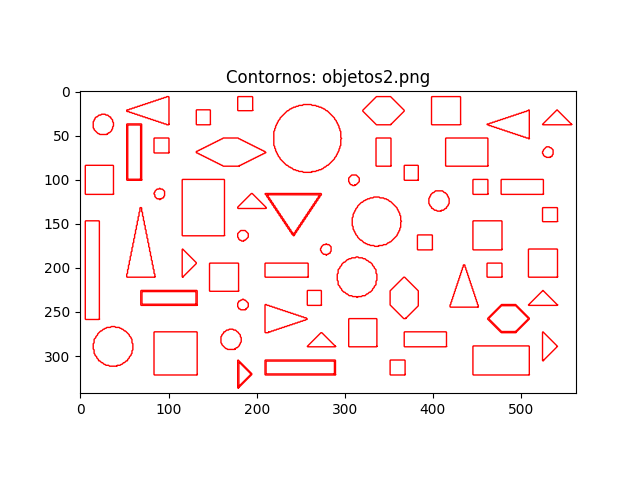
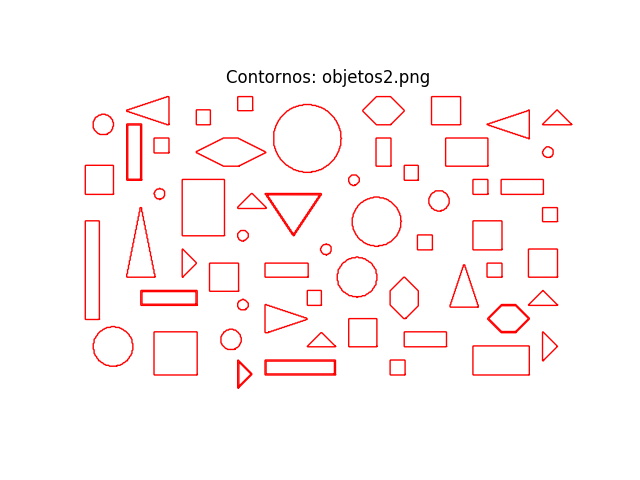
ex1 finished

diff --git a/ex1/main.py b/ex1/main.py
@@ -1,9 +1,8 @@
 import matplotlib
 matplotlib.use('Agg')
-import skimage.io
 import numpy as np
 import matplotlib.pyplot as plt
-from skimage import measure
+from skimage import measure, io
 
 '''
 Exercise: 1
@@ -16,68 +15,107 @@ State University of Campinas
 1st semester 2018
 '''
 
-def get_props(input_file):
-    img = skimage.io.imread(input_file, as_grey=True)
-    props = measure.regionprops(measure.label(img, background=255))
 
-    # label 1 is the background so we skip it
-    props = props[1:]
-    print("numero de regioes:", len(props))
+def show_objects_properties(input_file):
+    '''
+    Detect objects and save an image with each object labeled with its index.
+    Prints properties of each object.
+    :param input_file:
+    :return:
+    '''
+    img = io.imread(input_file, as_grey=True)
+
+    # detect objects and extract their properties
+    # background is 1 (white)
+    props = measure.regionprops(measure.label(img, background=1))
 
     areas = []
     for i, prop in enumerate(props):
-        # print properties of each region
-        print('regiao: {:d}\tperimetro: {:.0f}\tarea: {:.0f}\tcentroide: ({:.1f}, {:.1f})'.format(i, prop.perimeter, prop.area, prop.centroid[0], prop.centroid[1]))
+        print('regiao: {:d}\tperimetro: {:.0f}\tarea: {:.0f}\tcentroide: ({:.1f}, {:.1f})'
+              .format(i, prop.perimeter, prop.area, prop.centroid[0], prop.centroid[1]))
 
         # write text label on image
-        plt.text(prop.centroid[1]-4, prop.centroid[0]+4, str(i), fontsize=10, color='red')
+        plt.text(prop.centroid[1]-7, prop.centroid[0]+7, str(i), fontsize=10, color='black')
         areas.append(prop.area)
 
-    # show labeled regions
-    plt.imshow(img, cmap='gray')
-    plt.title('Regiões rotuladas: ' + input_file)
-    plt.savefig('regions.' + input_file)
-    plt.clf()
+    # show labeled objects
+    plot_only_contours(input_file)
+    save_image('regions.' + input_file, 'Regiões rotuladas: ' + input_file)
 
     # print object's areas stats
     areas = np.array(areas)
-    print('numero de regioes pequenas:', np.sum(areas < 1500))
-    print('numero de regioes medias:', np.sum((areas >= 1500) & (areas < 3000)))
-    print('numero de regioes grandes:', np.sum(areas >= 3000))
+    count_objects_per_size = np.array([np.sum(areas < 1500),
+                                       np.sum((areas >= 1500) & (areas < 3000)),
+                                       np.sum(areas >= 3000)])
+    print('----------------------------------------------')
+    print("numero total de objetos:", len(props))
+    print('numero de objetos pequenos:', count_objects_per_size[0])
+    print('numero de objetos medios:', count_objects_per_size[1])
+    print('numero de objetos grandes:', count_objects_per_size[2])
 
-    # show histogram of areas
-    plt.hist(areas, bins=[0, 1500, 3000, np.inf])
-    plt.xlabel('Área')
-    plt.ylabel('Número de regiões')
-    plt.title('Histograma de áreas: ' + input_file)
-    plt.savefig('hist.' + input_file)
-    plt.clf()
+    # plot histogram of objects per size
+    fig, ax = plt.subplots()
+    ind = np.arange(1,4)
+    ax.set_xticklabels(['Pequeno', 'Medio', 'Grande'])
+    ax.set_xticks(ind)
+    plt.bar(ind, count_objects_per_size)
+
+    # save image
+    plt.ylabel('Contagem')
+    save_image('hist.' + input_file, 'Histograma de áreas: ' + input_file, axis='on')
 
 
-def show_contours(input_file):
-    img = skimage.io.imread(input_file, as_grey=True)
+def plot_only_contours(input_file):
+    '''
+    Plots only the contours of the objects detected.
+    :param input_file: file name of image containing objects and a white background
+    :return: None. But plots in the current matplotlib
+    '''
+    img = io.imread(input_file, as_grey=True)
     contours = measure.find_contours(img, level=0.5)
 
     # start with blank image
-    img = np.full(img.shape, 255)
-    plt.imshow(img, cmap='gray', vmin=0, vmax=255)
+    img = np.full(img.shape, 1)
+    plt.imshow(img, cmap='gray', vmin=0, vmax=1)
 
     # fill with the contour pixels in red
     for n, contour in enumerate(contours):
         plt.plot(contour[:, 1], contour[:, 0], 'red', linewidth=1)
 
-    # print image containing only the contours in red
-    plt.title('Contornos: ' + input_file)
-    plt.savefig('contours.' + input_file)
-    plt.clf()
+
+def show_contours(input_file):
+    '''
+    Saves and image containing only the contours of the objects detected
+    :param input_file: file name of image containing objects and a white background
+    :return: None. Saves image with prefix "contours" in the current directory
+    '''
+    plot_only_contours(input_file)
+    save_image('contours.' + input_file, ('Contornos: ' + input_file))
 
 
 def show_grayscale(input_file):
+    '''
+    Saves the input_file image converted to grayscale
+    :param input_file: colored image file name
+    :return: None. Saves image with prefix "gray" in the current directory
+    '''
     # read as gray and print it
-    img = skimage.io.imread(input_file, as_grey=True)
+    img = io.imread(input_file, as_grey=True)
     plt.imshow(img,  cmap='gray')
-    plt.title('Escala de cinza: ' + input_file)
-    plt.savefig('gray.' + input_file)
+    save_image('gray.' + input_file, 'Escala de cinza: ' + input_file)
+
+
+def save_image(filename, title, axis='off'):
+    '''
+    Saves to file whatever we have plotted to matplotlib so far
+    :param filename:
+    :param title:
+    :return:
+    '''
+    plt.axis(axis)
+    plt.title(title)
+
+    plt.savefig(filename)
     plt.clf()
 
 
@@ -93,7 +131,7 @@ def main():
         print('------------------------------------------')
         show_grayscale(f)
         show_contours(f)
-        get_props(f)
+        show_objects_properties(f)
 
 if __name__ == "__main__":
     main()
